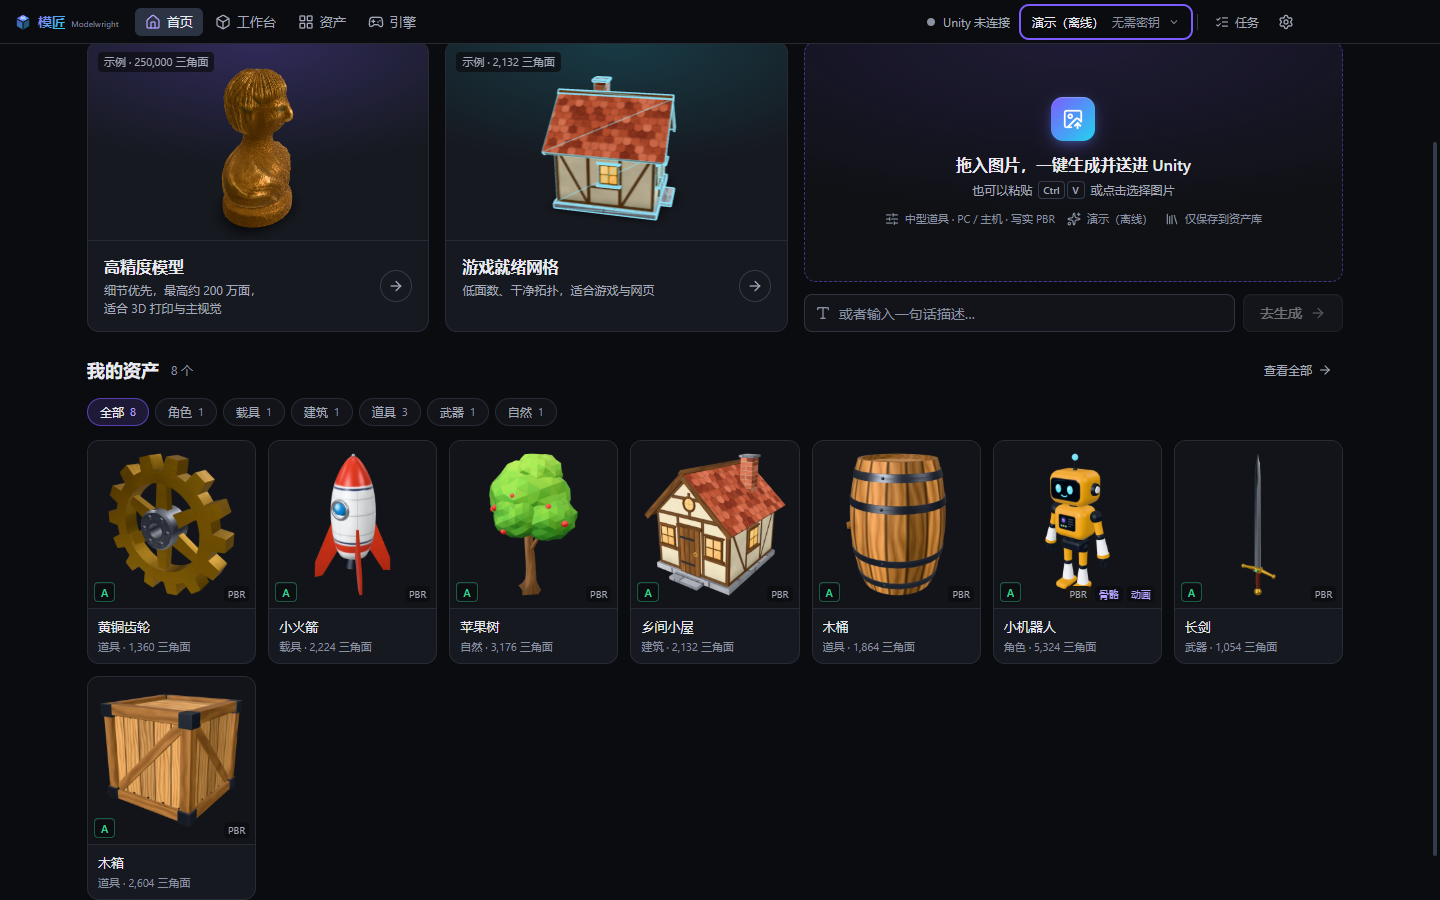
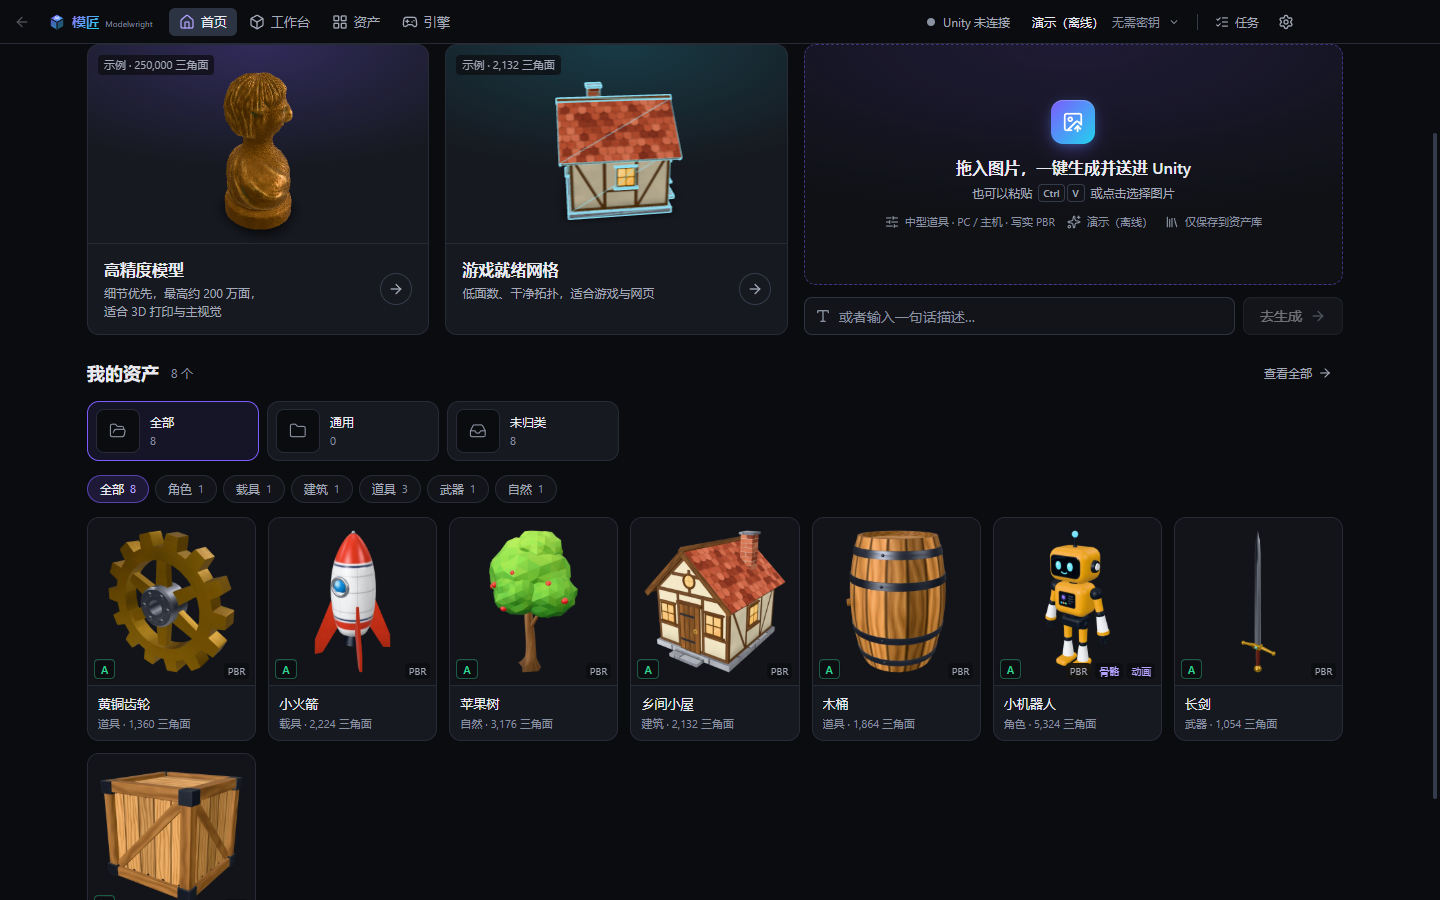
0.1.29：本地动作入口、日语提示补全；英文和日文页面换成各自语言的截图

diff --git a/docs/ja/index.html b/docs/ja/index.html
@@ -92,12 +92,12 @@
         <h1>画像 1 枚から 3D モデルを生成、<em>ワンクリックで Unity へ</em></h1>
         <p class="lead">画像を入れるか一文を書くだけで、そのまま使えるモデルができあがります。ポリゴン削減、LOD、コライダー、リギング、モーションまで 1 つのウィンドウで完結。無料で、生成には自分の API キーを使います。</p>
         <div class="cta">
-          <a class="btn primary" href="https://github.com/chenyihang98-pixel/Modelwright/releases/download/v0.1.28/Modelwright-Setup-0.1.28-x64-ja.exe">インストーラー版 0.1.28</a>
-          <a class="btn" href="https://github.com/chenyihang98-pixel/Modelwright/releases/download/v0.1.28/Modelwright-Portable-0.1.28-x64.exe">ポータブル版</a>
-          <a class="btn" href="https://github.com/chenyihang98-pixel/Modelwright/releases/download/v0.1.28/Modelwright-0.1.28-win.zip">zip</a>
+          <a class="btn primary" href="https://github.com/chenyihang98-pixel/Modelwright/releases/download/v0.1.29/Modelwright-Setup-0.1.29-x64-ja.exe">インストーラー版 0.1.29</a>
+          <a class="btn" href="https://github.com/chenyihang98-pixel/Modelwright/releases/download/v0.1.29/Modelwright-Portable-0.1.29-x64.exe">ポータブル版</a>
+          <a class="btn" href="https://github.com/chenyihang98-pixel/Modelwright/releases/download/v0.1.29/Modelwright-0.1.29-win.zip">zip</a>
         </div>
         <p class="fine"><a href="https://github.com/chenyihang98-pixel/Modelwright/releases"><img alt="累計ダウンロード" src="https://img.shields.io/badge/dynamic/json?url=https%3A%2F%2Fstarwright.xyz%2Fapi%2Fdownloads%2Fmodelwright&amp;query=%24.total&amp;label=%E7%B4%AF%E8%A8%88%E3%83%80%E3%82%A6%E3%83%B3%E3%83%AD%E3%83%BC%E3%83%89&amp;suffix=%20%E5%9B%9E&amp;color=2b48f0&amp;cacheSeconds=1800" style="vertical-align:middle"></a> · Windows 10 / 11 · インストーラー版は自動更新 · コード署名なし：Windows の警告が出たら「詳細情報」→「実行」</p>
-        <div class="shot"><img src="../screenshots/02-home.png" alt="Modelwright のホーム画面" loading="eager"></div>
+        <div class="shot"><img src="../screenshots/ja/02-home.png" alt="Modelwright のホーム画面" loading="eager"></div>
       </div>
     </div>
 
@@ -130,11 +130,11 @@
         <h2>スクリーンショット</h2>
         <p class="sub">日本語・英語・中国語で表示できます。このページのインストーラーは日本語で起動します。</p>
         <div class="gallery">
-          <figure><img src="../screenshots/03-workspace.png" alt="ワークスペース" loading="lazy"><figcaption>ワークスペース</figcaption></figure>
-          <figure><img src="../screenshots/04-generate-preflight.png" alt="送信前のチェック" loading="lazy"><figcaption>送信前のチェックと費用</figcaption></figure>
-          <figure><img src="../screenshots/05-postprocess.png" alt="後処理" loading="lazy"><figcaption>ローカル後処理（処理前後の比較）</figcaption></figure>
-          <figure><img src="../screenshots/06-assets.png" alt="アセットライブラリ" loading="lazy"><figcaption>アセットライブラリ</figcaption></figure>
-          <figure><img src="../screenshots/07-settings-providers.png" alt="生成サービスの設定" loading="lazy"><figcaption>自分のキーを入力。残高も確認できます</figcaption></figure>
+          <figure><img src="../screenshots/ja/03-workspace.png" alt="ワークスペース" loading="lazy"><figcaption>ワークスペース</figcaption></figure>
+          <figure><img src="../screenshots/ja/04-generate-preflight.png" alt="送信前のチェック" loading="lazy"><figcaption>送信前のチェックと費用</figcaption></figure>
+          <figure><img src="../screenshots/ja/05-postprocess.png" alt="後処理" loading="lazy"><figcaption>ローカル後処理（処理前後の比較）</figcaption></figure>
+          <figure><img src="../screenshots/ja/06-assets.png" alt="アセットライブラリ" loading="lazy"><figcaption>アセットライブラリ</figcaption></figure>
+          <figure><img src="../screenshots/ja/07-settings-providers.png" alt="生成サービスの設定" loading="lazy"><figcaption>自分のキーを入力。残高も確認できます</figcaption></figure>
           <figure><img src="../screenshots/08-animation.png" alt="リギングとモーション" loading="lazy"><figcaption>リギングとモーション</figcaption></figure>
           <figure><img src="../screenshots/09-unity-play.png" alt="Unity の Play モード" loading="lazy"><figcaption>Unity で Play</figcaption></figure>
         </div>

diff --git a/docs/en/index.html b/docs/en/index.html
@@ -92,12 +92,12 @@
         <h1>One image in, a 3D model out — <em>straight into Unity</em></h1>
         <p class="lead">Drop in an image or type a sentence and get a model you can actually use. Decimation, LODs, colliders, rigging and motions all happen in one window. Free; generation runs on your own API key.</p>
         <div class="cta">
-          <a class="btn primary" href="https://github.com/chenyihang98-pixel/Modelwright/releases/download/v0.1.28/Modelwright-Setup-0.1.28-x64-en.exe">Download installer 0.1.28</a>
-          <a class="btn" href="https://github.com/chenyihang98-pixel/Modelwright/releases/download/v0.1.28/Modelwright-Portable-0.1.28-x64.exe">Portable</a>
-          <a class="btn" href="https://github.com/chenyihang98-pixel/Modelwright/releases/download/v0.1.28/Modelwright-0.1.28-win.zip">zip</a>
+          <a class="btn primary" href="https://github.com/chenyihang98-pixel/Modelwright/releases/download/v0.1.29/Modelwright-Setup-0.1.29-x64-en.exe">Download installer 0.1.29</a>
+          <a class="btn" href="https://github.com/chenyihang98-pixel/Modelwright/releases/download/v0.1.29/Modelwright-Portable-0.1.29-x64.exe">Portable</a>
+          <a class="btn" href="https://github.com/chenyihang98-pixel/Modelwright/releases/download/v0.1.29/Modelwright-0.1.29-win.zip">zip</a>
         </div>
         <p class="fine"><a href="https://github.com/chenyihang98-pixel/Modelwright/releases"><img alt="Total downloads" src="https://img.shields.io/badge/dynamic/json?url=https%3A%2F%2Fstarwright.xyz%2Fapi%2Fdownloads%2Fmodelwright&amp;query=%24.total&amp;label=downloads&amp;color=2b48f0&amp;cacheSeconds=1800" style="vertical-align:middle"></a> · Windows 10 / 11 · The installer updates itself · Not code-signed: when Windows stops you, click “More info → Run anyway”</p>
-        <div class="shot"><img src="../screenshots/02-home.png" alt="Modelwright home screen" loading="eager"></div>
+        <div class="shot"><img src="../screenshots/en/02-home.png" alt="Modelwright home screen" loading="eager"></div>
       </div>
     </div>
 
@@ -130,11 +130,11 @@
         <h2>Screenshots</h2>
         <p class="sub">The app speaks Chinese, English and Japanese; the installer on this page starts it in English.</p>
         <div class="gallery">
-          <figure><img src="../screenshots/03-workspace.png" alt="Workspace" loading="lazy"><figcaption>Workspace</figcaption></figure>
-          <figure><img src="../screenshots/04-generate-preflight.png" alt="Pre-flight" loading="lazy"><figcaption>Checks and cost before submitting</figcaption></figure>
-          <figure><img src="../screenshots/05-postprocess.png" alt="Post-processing" loading="lazy"><figcaption>Local post-processing, before and after</figcaption></figure>
-          <figure><img src="../screenshots/06-assets.png" alt="Asset library" loading="lazy"><figcaption>Asset library</figcaption></figure>
-          <figure><img src="../screenshots/07-settings-providers.png" alt="3D providers" loading="lazy"><figcaption>Your own keys, with the balance in view</figcaption></figure>
+          <figure><img src="../screenshots/en/03-workspace.png" alt="Workspace" loading="lazy"><figcaption>Workspace</figcaption></figure>
+          <figure><img src="../screenshots/en/04-generate-preflight.png" alt="Pre-flight" loading="lazy"><figcaption>Checks and cost before submitting</figcaption></figure>
+          <figure><img src="../screenshots/en/05-postprocess.png" alt="Post-processing" loading="lazy"><figcaption>Local post-processing, before and after</figcaption></figure>
+          <figure><img src="../screenshots/en/06-assets.png" alt="Asset library" loading="lazy"><figcaption>Asset library</figcaption></figure>
+          <figure><img src="../screenshots/en/07-settings-providers.png" alt="3D providers" loading="lazy"><figcaption>Your own keys, with the balance in view</figcaption></figure>
           <figure><img src="../screenshots/08-animation.png" alt="Rigging and motions" loading="lazy"><figcaption>Rigging and motions</figcaption></figure>
           <figure><img src="../screenshots/09-unity-play.png" alt="Unity Play mode" loading="lazy"><figcaption>Play mode in Unity</figcaption></figure>
         </div>

diff --git a/docs/index.html b/docs/index.html
@@ -92,9 +92,9 @@
         <h1>一张图生成 3D 模型，<em>一键送进 Unity</em></h1>
         <p class="lead">图片或一句话进，能直接用的模型出。减面、LOD、碰撞体、绑骨、动作都在一个窗口里做完。免费，生成用你自己的 API 密钥。</p>
         <div class="cta">
-          <a class="btn primary" href="https://github.com/chenyihang98-pixel/Modelwright/releases/download/v0.1.28/Modelwright-Setup-0.1.28-x64.exe">下载安装版 0.1.28</a>
-          <a class="btn" href="https://github.com/chenyihang98-pixel/Modelwright/releases/download/v0.1.28/Modelwright-Portable-0.1.28-x64.exe">便携版</a>
-          <a class="btn" href="https://github.com/chenyihang98-pixel/Modelwright/releases/download/v0.1.28/Modelwright-0.1.28-win.zip">zip</a>
+          <a class="btn primary" href="https://github.com/chenyihang98-pixel/Modelwright/releases/download/v0.1.29/Modelwright-Setup-0.1.29-x64.exe">下载安装版 0.1.29</a>
+          <a class="btn" href="https://github.com/chenyihang98-pixel/Modelwright/releases/download/v0.1.29/Modelwright-Portable-0.1.29-x64.exe">便携版</a>
+          <a class="btn" href="https://github.com/chenyihang98-pixel/Modelwright/releases/download/v0.1.29/Modelwright-0.1.29-win.zip">zip</a>
         </div>
         <p class="fine"><a href="https://github.com/chenyihang98-pixel/Modelwright/releases"><img alt="累计下载" src="https://img.shields.io/badge/dynamic/json?url=https%3A%2F%2Fstarwright.xyz%2Fapi%2Fdownloads%2Fmodelwright&amp;query=%24.total&amp;label=%E7%B4%AF%E8%AE%A1%E4%B8%8B%E8%BD%BD&amp;suffix=%20%E6%AC%A1&amp;color=2b48f0&amp;cacheSeconds=1800" style="vertical-align:middle"></a> · Windows 10 / 11 · 安装版会自动更新 · 没买代码签名，Windows 拦的时候点「更多信息 → 仍要运行」</p>
         <div class="shot"><img src="screenshots/02-home.png" alt="模匠首页" loading="eager"></div>

diff --git a/RELEASE-NOTES.ja.md b/RELEASE-NOTES.ja.md
@@ -6,6 +6,19 @@
 
 インストーラー版は自動で更新されます。ポータブル版と zip は [Releases](https://github.com/chenyihang98-pixel/Modelwright/releases) から新しいバージョンを入手してください。
 
+## 0.1.29（2026-11-13）
+
+**改善**
+- リギング済みのキャラクターで「リグ」を開くと、いちばん上にローカルのモーション（クレジット不要）への入口が出ます。クラウドのモーションにはクレジットを使うことを明記しました
+- シンプル表示では、詳細表示で変えた設定（リギングなし、ローカル最適化なし、既存アセットの新しいバージョンとして保存、変更したパラメーター）を生成パネルに一覧表示し、それぞれ元に戻せます
+- モーションスタジオで、ベイク済みのバージョンのファイルに入っているモーションを表示します
+- 英語版・日本語版インストーラーが作るショートカットの説明とアンインストール項目のコメントが、インストール時に選んだ言語になりました
+
+**修正**
+- 日本語表示で、キーのテスト、画像のドロップ、リンクからのインポート、パラメーターのチェックのメッセージが英語のままだった
+- 日本語の誤り：Tripo の利用開始の説明、Hunyuan のモーションのヒント、Unity の「再読み込み」が「更新」になっていた箇所
+- 初回起動時に設定ファイルが他のプログラムに使われていると、インストーラーで選んだ言語が反映されなかった
+
 ## 0.1.28（2026-11-13）
 
 Unity プラグインが 0.1.34 になりました。「エンジン」ページで「更新」を押してください。
@@ -16,7 +29,7 @@ Unity プラグインが 0.1.34 になりました。「エンジン」ページ
 - 日本語表示に対応。インストーラーは中国語・英語・日本語の 3 種類で、インストール時に選んだ言語がアプリの言語になります
 
 **改善**
-- ワンクリックで Unity に送るキャラクターは、形式を確認せずに GLB で送信します
+- シンプル表示では、プロジェクトに glTF インポーターがあれば、ワンクリックで Unity に送るキャラクターを形式の確認なしに GLB で送信します
 - 歩きと走りの切り替え、動き出し、停止のときに体が安定しました
 - Tripo のクラウド結果は 7 日間だけ保存されます。タスクに期限を表示し、期限後はローカルファイルを使います
 

diff --git a/RELEASE-NOTES.en.md b/RELEASE-NOTES.en.md
@@ -6,6 +6,19 @@
 
 The installer updates itself. For the portable build and the zip, download the new version from [Releases](https://github.com/chenyihang98-pixel/Modelwright/releases).
 
+## 0.1.29 (2026-11-13)
+
+**Improved**
+- For a rigged character, “Rig & animate” now starts with the motions on your computer, which cost nothing; cloud motions say they cost credits
+- In the simple view, what you changed in the advanced view (no rigging, no local optimisation, saving as a new version of an old asset, custom parameters) is listed in the generate panel, each with a way back
+- The Motion studio says which motions a baked version already has in its file
+- Shortcuts and the uninstall entry made by the English and Japanese installers describe the app in the language you installed
+
+**Fixed**
+- In Japanese, the messages of key tests, dropped pictures, link imports and parameter checks were in English
+- Japanese wording that said the wrong thing: Tripo's sign-up note, the Hunyuan motion hint, Unity's “refresh” written as “update”
+- The language picked in the installer was lost when the settings file happened to be in use during the first start
+
 ## 0.1.28 (2026-11-13)
 
 The Unity plugin is now 0.1.34: press “Upgrade” on the Engine page.
@@ -16,7 +29,7 @@ The Unity plugin is now 0.1.34: press “Upgrade” on the Engine page.
 - Japanese interface. Three installers — Chinese, English, Japanese — and the language you pick while installing is the app's language
 
 **Improved**
-- A character sent to Unity in one click goes as GLB without stopping to ask about the format
+- In the simple view, when the project has a glTF importer, a character sent to Unity in one click goes as GLB without stopping to ask about the format
 - Steadier body when switching between walk and run, starting and stopping
 - Tripo keeps cloud results for 7 days: tasks show the date, and expired ones fall back to the local file
 

diff --git a/README.en.md b/README.en.md
@@ -3,7 +3,7 @@
 </h3>
 
 <p align="center">
-  <img src="docs/screenshots/02-home.png" alt="Modelwright home screen" width="880">
+  <img src="docs/screenshots/en/02-home.png" alt="Modelwright home screen" width="880">
 </p>
 
 <h1 align="center">Modelwright</h1>
@@ -59,15 +59,15 @@ The installer isn't code-signed, so Windows will stop you once on first run: cli
 - **Asset library**: version history, folders, search, a recycle bin, export to GLB / OBJ / STL / PLY
 - **Batch**: one description per line; jobs queue up for generation, processing and delivery, and survive closing the app
 
-The app speaks Chinese, English and Japanese. The English installer starts it in English; switch any time under Settings → Language & about.
+The app speaks Chinese, English and Japanese. The English installer starts it in English; switch any time under Settings → Language & about. The portable file and the zip are the same for every language and start in the language of Windows.
 
 ## Screenshots
 
 | | |
 |---|---|
-| ![Workspace](docs/screenshots/03-workspace.png) | ![Pre-flight](docs/screenshots/04-generate-preflight.png) |
+| ![Workspace](docs/screenshots/en/03-workspace.png) | ![Pre-flight](docs/screenshots/en/04-generate-preflight.png) |
 | Workspace | Checks and cost before submitting |
-| ![Post-processing](docs/screenshots/05-postprocess.png) | ![Asset library](docs/screenshots/06-assets.png) |
+| ![Post-processing](docs/screenshots/en/05-postprocess.png) | ![Asset library](docs/screenshots/en/06-assets.png) |
 | Local post-processing, before and after | Asset library |
 | ![Rigging and motions](docs/screenshots/08-animation.png) | ![Unity Play mode](docs/screenshots/09-unity-play.png) |
 | Rigging and motions | Play mode in Unity |

diff --git a/RELEASE-NOTES.md b/RELEASE-NOTES.md
@@ -6,6 +6,19 @@
 
 安装版会自动更新；便携版和 zip 到 [Releases](https://github.com/chenyihang98-pixel/Modelwright/releases) 下新的。
 
+## 0.1.29（2026-11-13）
+
+**优化**
+- 已绑骨的角色点「绑骨动画」，最上面是本地动作的入口，不花积分；云端动作标明要花积分
+- 简洁模式下，之前在高级模式里改过的地方（不绑骨、不做本地优化、存成旧资产的新版本、改过的参数）会列在生成面板里，每条都能恢复
+- 动作设计里，烘焙过的版本会写明文件里已有哪几段动作
+- 英文和日文安装包装出来的快捷方式说明、卸载时显示的备注，是安装时选的语言
+
+**修复**
+- 日语界面下，测试密钥、拖入图片、从链接导入、参数检查的提示是英文
+- 日语里几处说错的地方：Tripo 的开通说明、混元动作的提示、Unity「刷新」被写成「更新」
+- 安装时设置文件正好被别的程序占用，安装时选的语言没有生效
+
 ## 0.1.28（2026-11-13）
 
 Unity 插件升到 0.1.34，在「引擎」页点一下「升级」。
@@ -16,7 +29,7 @@ Unity 插件升到 0.1.34，在「引擎」页点一下「升级」。
 - 日语界面。安装包分中文、英文、日文三个，装的时候选哪种语言，应用就是哪种语言
 
 **优化**
-- 一键送进 Unity 的角色直接按 GLB 发送，不再中途停下来问格式
+- 简洁模式下，工程装了 glTF 导入器时，一键送进 Unity 的角色直接按 GLB 发送，不再中途停下来问格式
 - 走跑切换、起步和停下时身体更稳
 - Tripo 的云端结果只保留 7 天：任务上会提示到期时间，过期后自动改用本地文件
 

diff --git a/README.md b/README.md
@@ -50,7 +50,7 @@ Windows 10 / 11，引擎目前只接了 Unity。
 | `Modelwright-Portable-…-x64.exe` | 便携版，单个文件。数据放在旁边的 `Modelwright-Data` 文件夹，可以装在 U 盘里带走 |
 | `Modelwright-…-win.zip` | 解压就能用 |
 
-安装版有中文、英文、日文三个（英文和日文的文件名带 `-en`、`-ja`），区别只是安装界面和应用一开始用哪种语言。
+安装版有中文、英文、日文三个（英文和日文的文件名带 `-en`、`-ja`），区别只是安装界面和应用一开始用哪种语言。便携版和 zip 不分语言，第一次打开跟系统语言走。
 
 安装包没买代码签名，第一次运行 Windows 会拦一下，点「更多信息 → 仍要运行」。不放心可以对一下 Release 页里的 SHA-256。
 
